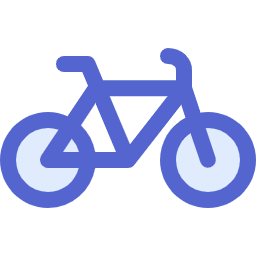
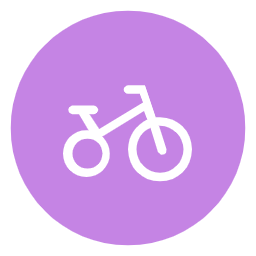
地图界面优化， 增加回到原点按钮

diff --git a/pages/map/map.js b/pages/map/map.js
@@ -58,7 +58,8 @@ Page({
       width: 32,
       height: 32,
       anchor: { x: 0.5, y: 0.5 },
-      zIndex: 1000
+      zIndex: 1000,
+      
     };
   },
 
@@ -203,7 +204,20 @@ Page({
       width: 32,
       height: 32,
       anchor: { x: 0.5, y: 0.5 },
-      zIndex: 1000 // 赋予最高层级，确保不被地标压住
+      zIndex: 1000, // 赋予最高层级，确保不被地标压住
+
+      callout: {
+        content: '我的位置',
+        display: 'ALWAYS',
+        padding: 4,          // 缩小内边距，让边框贴近文字
+        borderRadius: 12,    // 适中的圆角，看起来既圆润又不突兀
+        fontSize: 12,        // 减小字号，显得更精致
+        color: '#000000',
+        bgColor: '#ffffff',  // 建议改用蓝色背景配白字，视觉上体积感更小
+        textAlign: 'center',
+        borderWidth: 0
+      }
+
     };
 
   // 将“我”的标记加入 markers 数组
@@ -269,7 +283,17 @@ Page({
 
   restore() {
     const mapCtx = wx.createMapContext('map');
-    mapCtx.moveToLocation();
+    mapCtx.moveToLocation({
+      latitude: this.data.myMockLat,
+      longitude: this.data.myMockLng,
+      success: () => {
+        wx.showToast({
+          title: '已回到我的位置',
+          icon: 'none',
+          duration: 1000
+        });
+      }
+    });
     this.loadBikesFromServer();
   }
 });
